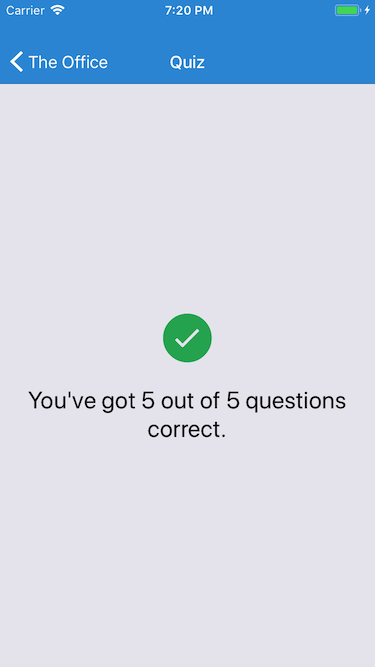
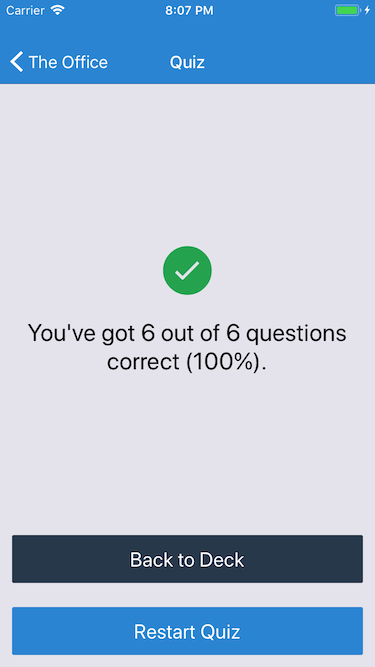
buttons to restart quiz or go back to deck

diff --git a/components/Quiz.js b/components/Quiz.js
@@ -1,11 +1,12 @@
 import React, { Component } from 'react';
-import { StyleSheet, Text, View } from 'react-native';
+import { StyleSheet, Text, TouchableOpacity, View } from 'react-native';
 import { connect } from 'react-redux';
 import { styles } from '../helpers/styles';
 import { Card } from './Card';
 import { Ionicons } from '@expo/vector-icons';
 import { colors } from '../helpers/colors';
 import { clearLocalNotification, setLocalNotification } from '../helpers/notifications';
+import { NavigationActions } from 'react-navigation';
 
 class Quiz extends Component {
     state = {
@@ -43,6 +44,14 @@ class Quiz extends Component {
             .then(setLocalNotification)
     }
 
+    resetQuiz = () => {
+        const questions = this.state.questions.map((question) => {
+            return { question: question.question, answer: question.answer, correct: false }
+        });
+
+        this.setState({questions, currentQuestionIndex: 0, showQuestion: true});
+    };
+
     handleButtons = (status) => {
         const questions = this.state.questions;
         questions[this.state.currentQuestionIndex].correct = status;
@@ -68,18 +77,33 @@ class Quiz extends Component {
                 }
                 {this.state.questions.length > 0 &&
                 this.state.currentQuestionIndex >= this.state.questions.length &&
-                <View style={style.quizDone}>
-                    {this.state.questions.filter(question => question.correct).length === this.state.questions.length &&
-                    <Ionicons size={60} style={style.checkmarkIcon} name="ios-checkmark-circle"/>
-                    }
-                    {this.state.questions.filter(question => question.correct).length !== this.state.questions.length &&
-                    <Ionicons size={60} style={style.alertIcon} name="ios-alert"/>
-                    }
-                    <Text style={style.quizDoneText}>You've
-                        got {this.state.questions.filter(question => question.correct).length} out
-                        of {this.state.questions.length} questions correct
-                        ({Math.round(this.state.questions.filter(question => question.correct).length / this.state.questions.length * 100)}%).
-                    </Text>
+                <View style={styles.container}>
+                    <View style={{flex: 1, justifyContent: 'flex-end', alignItems: 'center'}}>
+                        {this.state.questions.filter(question => question.correct).length === this.state.questions.length &&
+                        <Ionicons size={60} style={style.checkmarkIcon} name="ios-checkmark-circle"/>
+                        }
+                        {this.state.questions.filter(question => question.correct).length !== this.state.questions.length &&
+                        <Ionicons size={60} style={style.alertIcon} name="ios-alert"/>
+                        }
+                        <Text style={style.quizDoneText}>You've
+                            got {this.state.questions.filter(question => question.correct).length} out
+                            of {this.state.questions.length} questions correct
+                            ({Math.round(this.state.questions.filter(question => question.correct).length / this.state.questions.length * 100)}%).
+                        </Text>
+                    </View>
+                    <View style={{flex: 1, justifyContent: 'flex-end'}}>
+                        <TouchableOpacity
+                            style={[styles.button, style.backToDeckButton]}
+                            onPress={() => this.props.navigation.dispatch(NavigationActions.back())}>
+                            <Text style={styles.buttonText}>Back to Deck</Text>
+                        </TouchableOpacity>
+
+                        <TouchableOpacity
+                            style={styles.button}
+                            onPress={this.resetQuiz}>
+                            <Text style={styles.buttonText}>Restart Quiz</Text>
+                        </TouchableOpacity>
+                    </View>
                 </View>
                 }
                 {this.state.questions.length === 0 &&
@@ -112,6 +136,9 @@ const style = StyleSheet.create({
     quizDoneText: {
         fontSize: 24,
         textAlign: 'center'
+    },
+    backToDeckButton: {
+        backgroundColor: colors.ASPHALT
     }
 });
 
